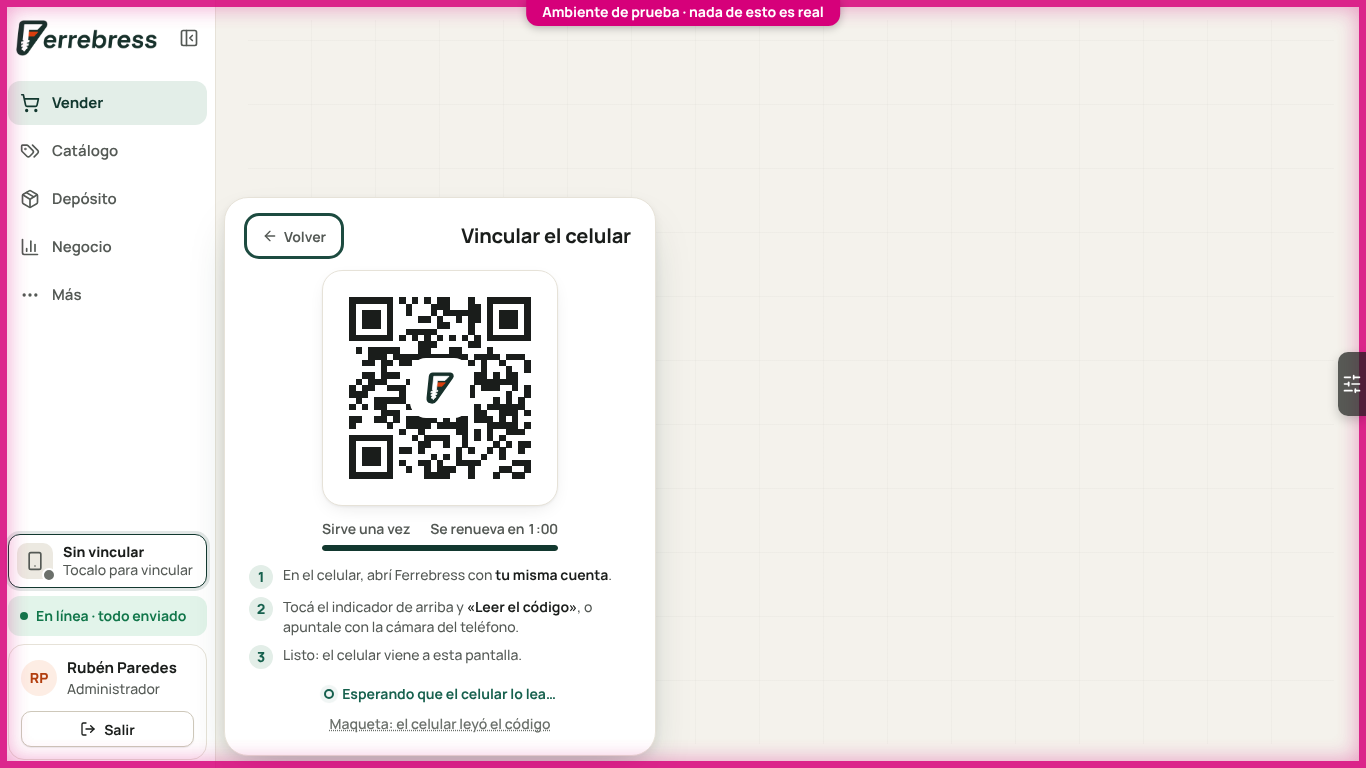
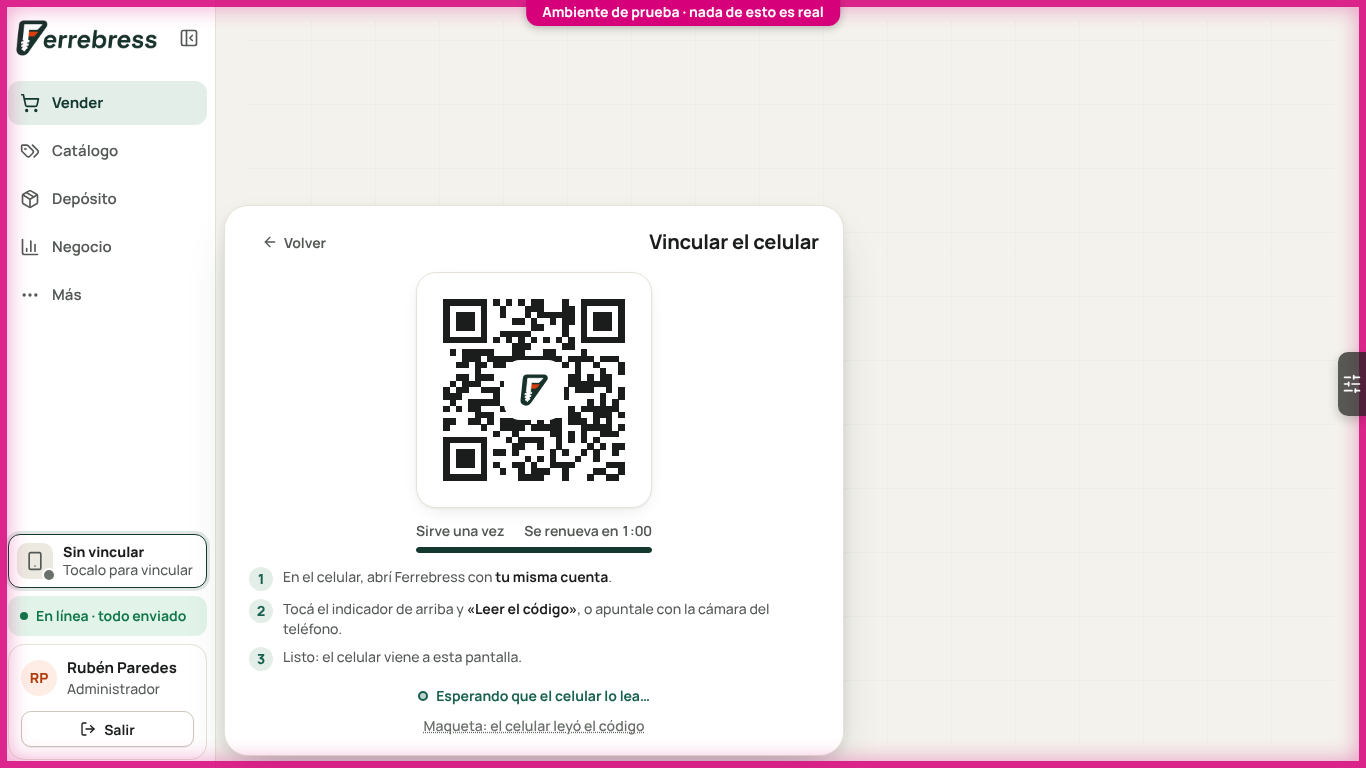
03a · paso 2: la ficha de la computadora entra sin desplazarse
Pedido de Carlos: más ancha (620 px), los botones en una fila y los textos más cortos.

Claude-Session: https://claude.ai/code/session_01BmbhiYJAfQvWshUgYzn7JL

Changed region(s): [[0.1845, 0.2812, 0.6149, 1.0], [0.1845, 0.25, 0.246, 0.3438]]

diff --git a/docs/design/mockups/device-link-indicator/final/link.css b/docs/design/mockups/device-link-indicator/final/link.css
@@ -90,36 +90,38 @@ body.alt.con-capa .capa-arriba .kbd { display: inline-flex; }
 @keyframes cambia { from { opacity: 0; transform: translateY(4px); } }
 
 /* =================== La ficha: flota al lado del indicador (computadora) =================== */
-.ficha { position: fixed; left: 224px; bottom: 12px; width: 432px; max-height: calc(100vh - 24px); z-index: 30; display: flex; flex-direction: column; background: var(--superficie); border: 1px solid var(--borde); border-radius: var(--r-hoja); box-shadow: var(--sombra-3); overflow: hidden; opacity: 0; transform: translateX(-12px) scale(.98); transform-origin: left bottom; pointer-events: none; transition: opacity var(--t) var(--curva), transform var(--t-nav) var(--curva); }
+.ficha { position: fixed; left: 224px; bottom: 12px; width: 620px; max-height: calc(100vh - 24px); z-index: 30; display: flex; flex-direction: column; background: var(--superficie); border: 1px solid var(--borde); border-radius: var(--r-hoja); box-shadow: var(--sombra-3); overflow: hidden; opacity: 0; transform: translateX(-12px) scale(.98); transform-origin: left bottom; pointer-events: none; transition: opacity var(--t) var(--curva), transform var(--t-nav) var(--curva); }
 .ficha.abierta { opacity: 1; transform: none; pointer-events: auto; }
 .ficha-hojas { display: grid; grid-template-columns: 100% 100%; min-height: 0; transition: transform var(--t-nav) var(--curva); }
 .ficha.codigo .ficha-hojas { transform: translateX(-100%); }
 /* Si no entra en la pantalla (una notebook con la barra del navegador), se desplaza adentro */
-.ficha-pag { padding: 20px 24px; min-width: 0; max-height: calc(100vh - 26px); overflow-y: auto; overscroll-behavior: contain; }
-.ficha-cab { display: flex; align-items: center; gap: 8px; margin-bottom: 16px; }
+.ficha-pag { padding: 18px 24px; min-width: 0; max-height: calc(100vh - 26px); overflow-y: auto; overscroll-behavior: contain; }
+.ficha-cab { display: flex; align-items: center; gap: 8px; margin-bottom: 12px; }
 .ficha-cab h2 { margin: 0; flex: 1; font-size: 20px; line-height: 26px; font-weight: 750; letter-spacing: -.01em; }
 .ficha-cab .btn { gap: 6px; }
 .ficha-titulo-codigo { text-align: right; }
 body.alt .ficha-cerrar { width: auto; padding: 0 6px 0 8px; }
 
-.ruta-caja { padding: 28px 16px 12px; border-radius: var(--r-tarjeta); background: var(--fondo); }
+.ruta-caja { padding: 26px 16px 10px; border-radius: var(--r-tarjeta); background: var(--fondo); }
 .frase { margin: 16px 0 0; display: grid; gap: 8px; }
 .frase p { margin: 0; font-size: 15px; line-height: 22px; color: var(--tinta); }
 .ficha .aviso { margin-top: 12px; }
 
 /* Los datos del vínculo (R4.2): con qué, desde cuándo, hasta cuándo */
 .datos { margin: 16px 0 0; padding: 0; border-top: 1px solid var(--borde); }
-.datos-fila { display: grid; grid-template-columns: 20px 112px minmax(0, 1fr); gap: 10px; align-items: start; padding: 10px 0; border-bottom: 1px solid var(--borde); font-size: 14px; line-height: 20px; }
+.datos-fila { display: grid; grid-template-columns: 20px 128px minmax(0, 1fr); gap: 10px; align-items: start; padding: 10px 0; border-bottom: 1px solid var(--borde); font-size: 14px; line-height: 20px; }
 .datos-fila:last-child { border-bottom: 0; }
 .datos-fila .i { color: var(--texto-3); width: 18px; height: 18px; }
 .datos-fila dt { color: var(--texto-2); font-weight: 600; }
 .datos-fila dd { margin: 0; font-weight: 700; }
-.dura-barra { display: flex; align-items: center; gap: 8px; margin-top: 6px; }
+.datos-desde { color: var(--texto-2); font-weight: 600; }
+.datos-dura { display: flex; align-items: center; gap: 12px; }
+.dura-barra { flex: 1; display: flex; align-items: center; gap: 8px; min-width: 0; }
 .dura-barra .barra { flex: 1; margin: 0; }
 .dura-barra small { font-size: 14px; color: var(--texto-2); font-weight: 650; white-space: nowrap; }
 
 /* =================== La tira del día (R4.4), de la variante 2, en los colores de la ficha =================== */
-.hoy { margin-top: 16px; display: grid; gap: 8px; }
+.hoy { margin-top: 16px; display: grid; gap: 6px; }
 .hoy-cab { margin: 0; display: flex; justify-content: space-between; gap: 12px; font-size: 14px; line-height: 20px; font-weight: 650; color: var(--texto-2); }
 .hoy-cab b { color: var(--tinta); font-weight: 800; }
 .tira { position: relative; height: 12px; border-radius: 99px; background: var(--hundido); overflow: hidden; }
@@ -142,13 +144,13 @@ body.alt .ficha-cerrar { width: auto; padding: 0 6px 0 8px; }
 .acciones { display: grid; gap: 8px; margin-top: 16px; }
 .acciones .btn-accion { width: 100%; }
 /* Computadora: si la ficha no entra en la pantalla, lo de arriba se desplaza y los botones quedan a la vista */
-.ficha-pag > .acciones { position: sticky; bottom: -20px; z-index: 1; margin: 16px -24px -20px; padding: 12px 24px 20px; background: var(--superficie); border-top: 1px solid var(--borde); }
-.acciones-filas { display: grid; border: 1px solid var(--borde); border-radius: var(--r); overflow: hidden; }
-.accion-fila { display: flex; align-items: center; gap: 12px; height: 44px; padding: 0 12px; border: 0; background: var(--superficie); font-size: 15px; font-weight: 700; color: var(--tinta); text-align: left; }
-.accion-fila + .accion-fila { border-top: 1px solid var(--borde); }
+.ficha-pag > .acciones { position: sticky; bottom: -18px; z-index: 1; margin: 12px -24px -18px; padding: 12px 24px 18px; background: var(--superficie); border-top: 1px solid var(--borde); }
+.acciones-filas { display: flex; border: 1px solid var(--borde); border-radius: var(--r); overflow: hidden; }
+.accion-fila { flex: 1 1 auto; display: flex; align-items: center; justify-content: center; gap: 8px; height: 44px; padding: 0 12px; white-space: nowrap; border: 0; background: var(--superficie); font-size: 15px; font-weight: 700; color: var(--tinta); text-align: left; }
+.accion-fila + .accion-fila { border-left: 1px solid var(--borde); }
 .accion-fila:hover { background: var(--fondo); }
 .accion-fila .i { color: var(--texto-2); }
-.accion-fila .kbd { margin-left: auto; height: 22px; min-width: 22px; }
+.accion-fila .kbd { margin-left: 4px; height: 22px; min-width: 22px; }
 .accion-fila.peligro, .accion-fila.peligro .i { color: var(--error-texto); }
 .pasos { margin: 14px 0 0; padding: 0; list-style: none; display: grid; gap: 8px; counter-reset: paso; }
 .pasos li { display: grid; grid-template-columns: 24px 1fr; gap: 10px; font-size: 14px; line-height: 20px; color: var(--texto-2); }
@@ -172,7 +174,7 @@ body.alt .ficha-cerrar { width: auto; padding: 0 6px 0 8px; }
 .simular { display: block; margin: 8px auto 0; border: 0; background: none; color: var(--texto-3); font-size: 14px; font-weight: 600; text-decoration: underline dotted; }
 
 /* =================== La ruta dibujada (R4.2): los dos dispositivos y cómo se hablan =================== */
-.ruta { display: grid; grid-template-columns: 96px 1fr 96px; align-items: start; gap: 4px; }
+.ruta { display: grid; grid-template-columns: 136px 1fr 136px; align-items: start; gap: 4px; }
 .ruta-nodo { display: grid; justify-items: center; gap: 6px; text-align: center; }
 .ruta-ico { width: 52px; height: 52px; border-radius: 16px; background: var(--superficie); border: 1px solid var(--borde); box-shadow: var(--sombra-1); display: grid; place-items: center; color: var(--tinta); transition: opacity var(--t) var(--curva), transform var(--t-nav) var(--rebote); }
 .ruta-nodo small { font-size: 14px; line-height: 18px; font-weight: 650; color: var(--texto-2); }
@@ -313,9 +315,11 @@ body.alt .ficha-cerrar { width: auto; padding: 0 6px 0 8px; }
   .datos-fila dd b { color: var(--tinta); font-weight: 700; }
   .ficha-pag > .acciones { position: static; margin: 18px 0 0; padding: 0; border: 0; }
   .acciones .btn-accion { justify-content: center; }
-  .acciones-filas { gap: 8px; border: 0; border-radius: 0; overflow: visible; }
+  .acciones-filas { display: grid; gap: 8px; border: 0; border-radius: 0; overflow: visible; }
   .accion-fila { height: 44px; padding: 0 16px; border: 1px solid var(--borde-fuerte); border-radius: var(--r); font-size: 16px; box-shadow: var(--sombra-1); }
-  .accion-fila + .accion-fila { border-top: 1px solid var(--borde-fuerte); }
+  .accion-fila { justify-content: flex-start; gap: 12px; }
+  .accion-fila + .accion-fila { border-top: 1px solid var(--borde-fuerte); border-left: 1px solid var(--borde-fuerte); }
+  .ruta-caja { padding: 28px 8px 10px; }
   .accion-fila.peligro { border-color: transparent; box-shadow: none; background: transparent; }
   .confirmar-pie { display: grid; justify-content: stretch; gap: 8px; margin-top: 20px; }
   .confirmar-pie .btn { width: 100%; }

diff --git a/docs/design/mockups/device-link-indicator/final/link.js b/docs/design/mockups/device-link-indicator/final/link.js
@@ -19,13 +19,13 @@
         largo: "Tu celular y esta computadora muestran lo mismo y se hablan directo por el Wi-Fi del local: no gastan internet y lo que tocás llega al instante.",
         corto: "Muestran lo mismo, directo por el Wi-Fi del local." },
       servidor: { label: "Por el servidor", tone: "urgente",
-        largo: "Muestran lo mismo, pero se hablan por el servidor porque la red no deja la conexión directa. Gasta datos de internet y tarda un poco más. No se reintenta sola.",
+        largo: "Muestran lo mismo por el servidor, porque la red no deja la conexión directa. Gasta datos de internet, tarda un poco más y no se reintenta sola.",
         corto: "Muestran lo mismo por internet: la red no deja la directa." },
       desconectado: { label: "Desconectado", tone: "neutro",
         largo: "Siguen vinculados, pero cada uno trabaja por su lado. Sigue así hasta que alguien toque «Reconectar», aunque salgan y vuelvan a entrar.",
         corto: "Vinculados, cada uno por su lado hasta «Reconectar»." },
       esperando: { label: c ? "Esperando a la computadora" : "Esperando al celular", tone: "pino",
-        largo: "El celular no tiene Ferrebress abierto: la pantalla está apagada u otra aplicación está encima. Cuando vuelva, se encuentran solos y va a la pantalla de esta computadora.",
+        largo: "El celular no tiene Ferrebress abierto (pantalla apagada u otra aplicación encima). Cuando vuelva, se encuentran solos y va a esta pantalla.",
         corto: "La computadora no tiene Ferrebress abierto. Cuando vuelva, se encuentran solos." },
       sininternet: { label: "Sin internet", tone: "error",
         largo: "Se cortó la conexión directa y no hay internet para volver a encontrarse. Cuando vuelva internet, se encuentran solos.",
@@ -146,7 +146,7 @@
     var extra = c ? "" : s === "directo" ? " · por el Wi-Fi" : s === "servidor" ? " · por internet" : "";
     h += '<div class="frase"><span class="estado" data-tone="' + st.tone + '"><span class="dot"></span>' + st.label + extra + "</span><p>" + (c ? st.corto : st.largo) + "</p></div>";
     if (fallo && s === "servidor") h += '<div class="aviso urgente" id="fallo" role="status"><i class="i" data-i="triangle-alert"></i><span>' +
-      (c ? "No se pudo: la red sigue sin dejar. Siguen por el servidor." : "No se pudo: la red sigue sin dejar la conexión directa. Siguen por el servidor; probá de nuevo si cambiaste de Wi-Fi.") + "</span></div>";
+      (c ? "No se pudo: la red sigue sin dejar. Siguen por el servidor." : "No se pudo: la red sigue sin dejar la conexión directa.") + "</span></div>";
     if (!vinculado(s)) {
       if (!c) h += '<ol class="pasos"><li><span>Tocá <b>«Vincular el celular»</b>: aparece un código.</span></li><li><span>Leelo con el celular, con tu misma cuenta adentro.</span></li><li><span>Desde ahí, lo que toques en uno se ve en el otro. No pide permisos.</span></li></ol>';
     } else {
@@ -158,9 +158,8 @@
           '<div class="datos-fila"><i class="i" data-i="timer"></i><dt class="solo-lector">Cuánto dura</dt><dd>Dura hasta el 3 de diciembre sin usarse</dd></div></dl>';
       } else {
         h += '<dl class="datos">' +
-          '<div class="datos-fila"><i class="i" data-i="smartphone"></i><dt>Vinculado con</dt><dd>' + otro() + "</dd></div>" +
-          '<div class="datos-fila"><i class="i" data-i="calendar"></i><dt>Desde</dt><dd>Ayer, lunes 2 de noviembre, 8:14</dd></div>' +
-          '<div class="datos-fila"><i class="i" data-i="timer"></i><dt>Cuánto dura</dt><dd>Hasta el jueves 3 de diciembre, si no se usan juntos<span class="dura-barra"><span class="barra"><b></b></span><small>30 de 30 días</small></span></dd></div></dl>';
+          '<div class="datos-fila"><i class="i" data-i="smartphone"></i><dt>Vinculado con</dt><dd>' + otro() + ' <span class="datos-desde">· desde ayer, lunes 2 de noviembre, 8:14</span></dd></div>' +
+          '<div class="datos-fila"><i class="i" data-i="timer"></i><dt>Dura sin usarse</dt><dd class="datos-dura">Hasta el jueves 3 de diciembre<span class="dura-barra"><span class="barra"><b></b></span><small>30 de 30 días</small></span></dd></div></dl>';
       }
     }
     var acc = acciones(s), principal = acc.filter(function (a) { return a.tipo === "principal"; }), resto = acc.filter(function (a) { return a.tipo !== "principal"; });

diff --git a/docs/design/mockups/device-link-indicator/final/changes.md b/docs/design/mockups/device-link-indicator/final/changes.md
@@ -7,8 +7,9 @@ depende de `../shared/`: tiene su copia de `icons-extra.js` (los íconos de Luci
 isotipo son los de `common/brand/`.
 
 Capturas: `screenshot.png` (computadora, «Directo», la ficha abierta), `screenshot-server.png`
-(«Por el servidor»), `screenshot-alt.png` (con Alt apretado), `screenshot-code.png` (el código para
-vincular), `screenshot-phone.png` (celular, la hoja abierta), `screenshot-phone-closed.png` (celular,
+(«Por el servidor»), `screenshot-server-failed.png` (con «No se pudo»), `screenshot-alt.png` (con
+Alt apretado), `screenshot-code.png` (el código para vincular), `screenshot-notebook.png` (1366 ×
+657, una notebook de 768 px con la barra del navegador), `screenshot-phone.png` (celular, la hoja abierta), `screenshot-phone-closed.png` (celular,
 con la hoja cerrada) y `screenshot-phone-camera.png` (la cámara que lee el código).
 
 El selector gris de la derecha («Maqueta · estado») y `?estado=` siguen como en las variantes, fuera
@@ -28,6 +29,48 @@ del diseño. Con `?abierto=no` arranca con el detalle cerrado.
   - El último tramo es el estado de ahora. Los totales salen de los tramos, así que cambian con el
     estado: «Directo» da 2 h 17 min y 92 %; «Por el servidor», 2 h 17 min y 83 %; los demás,
     2 h 5 min y 91 %.
+
+- **En la computadora, la ficha entra sin desplazarse** (Carlos: «que no haga falta escrolear,
+  tal vez haciéndolo un poco más ancho o simplificando los textos»). Solo cambia la computadora;
+  el celular sigue igual.
+  - **Más ancha:** 620 px; era de 432.
+  - **La ruta:** las columnas de los dos dispositivos pasan de 96 a 136 px, así «Chrome en
+    Android» entra en un renglón, y la caja tiene 4 px menos de aire (26 y 10 px; eran 28 y 12).
+  - **Los botones que no son la acción principal**, en una sola fila partida (Desconectar ·
+    Vincular el celular · Desvincular), con la misma raya entre uno y otro. Antes eran tres
+    renglones, uno debajo del otro. La acción principal sigue arriba, naranja y ancha.
+  - **«Vinculado con» y «Desde», en un solo renglón:** «**Chrome en Android** · desde ayer, lunes
+    2 de noviembre, 8:14». Antes eran dos renglones.
+  - **«Cuánto dura», en un renglón:** la etiqueta pasa a «Dura sin usarse» y el valor a «Hasta el
+    jueves 3 de diciembre», con la barra y «30 de 30 días» a la derecha. Antes decía «Hasta el
+    jueves 3 de diciembre, si no se usan juntos» en dos renglones, con la barra debajo.
+  - **La frase de «Por el servidor»:** «Muestran lo mismo por el servidor, porque la red no deja la
+    conexión directa. Gasta datos de internet, tarda un poco más y no se reintenta sola.» Antes:
+    «Muestran lo mismo, pero se hablan por el servidor porque la red no deja la conexión directa.
+    Gasta datos de internet y tarda un poco más. No se reintenta sola.»
+  - **La frase de «Esperando al celular»:** «El celular no tiene Ferrebress abierto (pantalla
+    apagada u otra aplicación encima). Cuando vuelva, se encuentran solos y va a esta pantalla.»
+    Antes: «El celular no tiene Ferrebress abierto: la pantalla está apagada u otra aplicación está
+    encima. Cuando vuelva, se encuentran solos y va a la pantalla de esta computadora.»
+  - **El aviso de «Probar conexión directa» que falla**, en un renglón: «No se pudo: la red sigue
+    sin dejar la conexión directa.» Antes seguía «Siguen por el servidor; probá de nuevo si
+    cambiaste de Wi-Fi.»; que siguen por el servidor ya lo dice la pastilla del estado.
+  - **La leyenda de la tira** entra en un renglón con el ancho nuevo.
+  - **Un poco menos de aire:** 18 px arriba y abajo de la ficha (eran 20), 12 px bajo el título
+    (eran 16) y 6 px entre las partes de la tira (eran 8).
+  - **Cuánto mide cada estado** (cabe 742 px en 1366 × 768 y 631 px en 1366 × 657):
+
+    | Estado | Antes | Ahora |
+    |---|---|---|
+    | Sin vincular | 529 | 475 |
+    | Directo, Esperando, Sin internet | 826 a 848 | 565 |
+    | Por el servidor, Desconectado | 846 a 890 | 629 |
+    | Por el servidor, con «No se pudo» | 986 | 685 |
+    | El código para vincular | 557 | 549 |
+
+    En 1366 × 768 entra todo. En 1366 × 657 entra todo salvo «Por el servidor» con «No se pudo»,
+    al que le sobran 54 px. Ahí la ruta, la tira y los datos se desplazan adentro de la ficha y los
+    botones quedan siempre a la vista al pie.
 
 ## Por las reglas aprobadas
 
@@ -71,13 +114,10 @@ del diseño. Con `?abierto=no` arranca con el detalle cerrado.
   - El código QR es solo de la computadora; la cámara y la pregunta de reemplazar, solo del celular.
   - Los textos largos o cortos (00 · R3.2) y la forma del detalle cambian al cruzar el corte.
   - Las piezas del celular ya no van adentro de un marco `.celu` dibujado: son las de la página.
-- **La ficha no entra en una notebook de 768 px con la tira.** «Por el servidor» ya medía 746 px
-  sin la tira; con ella llega a 880. Además, la barra del navegador deja menos lugar.
-  - Ahora la ficha mide como mucho el alto de la pantalla menos 24 px, y lo de arriba se desplaza
-    adentro.
-  - Los botones quedan siempre a la vista al pie de la ficha, sobre una raya fina. Lo que se
-    desplaza es la ruta, la tira y los datos.
-  - En el celular la hoja entra entera en 844 px; si no entrara, se desplaza adentro.
+- **Si una pantalla es más baja que la ficha:** la ficha mide como mucho el alto de la pantalla
+  menos 24 px; la ruta, la tira y los datos se desplazan adentro y los botones quedan siempre a la
+  vista al pie, sobre una raya fina. Hoy pasa solo en el caso de arriba. En el celular la hoja
+  entra entera en 844 px; si no entrara, se desplaza adentro.
 - **Solo `transform` y `opacity`:**
   - El tilde del código leído se dibujaba animando el trazo (`stroke-dashoffset`). Ahora aparece
     agrandándose con un fundido (300 ms, `--rebote`). Además, con «reducir movimiento» el trazo
@@ -90,8 +130,8 @@ del diseño. Con `?abierto=no` arranca con el detalle cerrado.
   ventana más baja se cortaban la luz y la persona del pie del lateral. Se sacó.
 - **El menú no lleva a otras maquetas:** las partes son botones sin destino. Antes llevaban a
   carpetas `v2/` que ya no existen.
-- **Se probó en Chromium** (computadora a 1366 × 768 y celular a 390 × 844) sin errores en la
-  consola. No hubo Firefox para probarla.
+- **Se probó en Chromium** (computadora a 1366 × 768 y 1366 × 657, celular a 390 × 844) sin
+  errores en la consola. No hubo Firefox para probarla.
 
 ## Para llevarla al código
 
